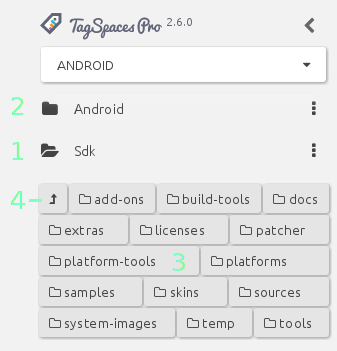
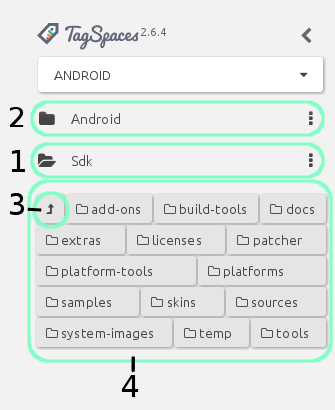
Replaced two images in userinterfaces.md

diff --git a/browsing-files.md b/browsing-files.md
@@ -1,22 +1,75 @@
-# Browsing your Files and Folders
+# Browsing Your Files
 
-tbd
+When you navigate to a folder in your active location, the files contained in the selected folder will be displayed on the main file browsing area of the user interface. TagSpaces offers flexible, configurable views to display your files. These views are called **perspectives**.
 
-(***ToDo: Add these sections to the main menu***)
+## Perspectives overview
 
+Perspectives are not an integral part of TagSpaces, but exist as modular extensions. This modular approach allows for more flexibility, easier development, and customisability of each separate perspective. By default, there are four perspective extensions included in TagSpaces, which are:
 
-## Perspectives
-
-This is a list of the perspective extensions currently build in the application:
-* [Grid Perspective](extensions/perspectiveGrid.html) - presenting your files as grid of thumbnails
-* [List Perspective](extensions/perspectiveList.html) - presenting your files as list, optimized simple file management operations
-* [ImageSwiper Perspective](extensions/perspectiveImageSwiper.html) - a perspective optimized for browsing and viewing of only image file formats
-* [FolderFiz Perspective](extensions/perspectiveGraph.html) - experiment which apply some information visualization concepts on your file structures
+* [List Perspective](extensions/perspectiveList.html) - Presenting your files as list, optimized for simple file management.
 
 
-## Working with the List perspective
+* [Grid Perspective](extensions/perspectiveGrid.html) - Presenting your files as grid of thumbnails, if enabled. Unlike other perspectives, the grid can also display folders.
 
-## Working with the Grid perspective
+
+* [ImageSwiper Perspective](extensions/perspectiveImageSwiper.html) - A perspective optimized for browsing and viewing image files. Use this for your photo or image folders.
+
+
+* [FolderViz Perspective](extensions/perspectiveGraph.html) - This is experimental perspective which applies some information visualization concepts to presenting your folder and file structures.
+
+
+## List perspective
+
+The most common way of presenting files in a folder, is the list format. In the list perspective, all files are represented as rows of a list, just like ou woudl find in most file browsing applications.
+
+***IMAGE***
+
+Each row is broken down into columns, which give information about the files in quetson. The columns, from left to right are:
+
+* **File extension**  -  A color coded icon, representing the file type. (Scroll down to [Common features -> Color coded file extensions](#color-coded-file-extensions) to learn more about this feature.) Underneath the file extension icon, there is also a checkbox, which can be used to easily select one or more files. This also mean, that  `Ctrl or Shift + click` will **not** work for selecting multiple files.
+
+
+* **Title** - The file's title is basically the filename sans the extension or any tag information. By default, TagSpaces stores tags as part of the filename. To learn more about how this is achieved, see the [*Tagging*](tagging.md) section.
+
+
+* **Tags** - All the tags that are applied to the file will appear here, with the right background and font color. To learn more about tag colors, refer to the [*User interface -> Tag Library](userinterface.md#tag-library) section.
+
+
+* **Size** - This is the file size, represented in a human readable format.
+
+
+* **Date modified** - The time the file had been last modified, in a format of `YYYY.MM.DD-hh:mm:ss`
+
+> **Hint:** To change the list oreder, you can click the list column headers. Each header offers biderectional sorting, although there is currently no indicator of either the direction, or the active sorting mode.
+
+**IMAGE** (with list header closeup, and highlighted)
+
+
+### List overflow menu options
+
+The **Floating Action Button** (FAB) at the bottom right corner, hides a contextual overflow menu applicable for the currently active perspective. The List perspective offers its own set of options, that will allow you to manage the list of files in certain ways.
+
+***IMAGE***
+
+* **Toggle Select All Files** will mark every file on the list as selected.
+
+
+* **Add/Remove tags** will allow you to manage tags on selected files (only available when there is an active selection, works on multiple files simultaneously). To learn more about how this feature works, refer to the [Tagging -> Tagging using context menus](tagging.md/tagging-using-context-menus) section.
+
+
+* **Copy/move files** will allow you to copy or move one or more selected files (only available when there is an active selection, works on multiple files simultaneously). Selecting this option will present you wit the Move or Copy File(s) dialog. After specifying the target director, which can be anywhere on the filesystem, even outside your connected locations, you can choose to move or copy them by pressing the right button.
+
+***IMAGE***
+
+* **Delete files** will allow you to delete the files or files selected (only available when there is an active selection, works on multiple files simultaneously).
+
+
+* **Show subfolders content** - If you don1t care about folder structure, or do not know where in the hierarchy you would find a necessary file, you can turn this option on, to show every file from all subfolders, recursively, starting from your current directory. The list will display all files in order, without any indication of their actual locations.
+
+* **Export to CSV** will create a **Comma Separated Variable** from all displayed files, be it from the current folder, or from the full folder hierarchy, and save it n a folder of your choice. The generated CSV contains `path,title,size, tag1, tag2,tag3,...`, where each new line represents a separate file.
+
+
+## Grid perspective
 tbd
 
 ### Showing folders in the grid perspective
@@ -25,14 +78,13 @@ This new feature gives shows in folders in the perspectives in addition for file
 ![subfolder support in the grid perspective](media/subfolder-support-grid-perspective.png)
 
 
-## Working with the ImageSwiper perspective
+## ImageSwiper perspective
 tbd
 
 ## Common features
 
-## Generating live thumbnails for photos
+### File context menu
 
-In the Grid and ImageSwiper perspectives TagSpaces generates thumbnails for JPG and PNG files on the fly. These small image previews are not persisted on your system, so every time you open a folder they will be regenerated. TagSpaces generates thumbnails only for image files which are currently visible in the application.
 
 ### Color coded file extensions
 In the grid and list perspective there is support for color coded file extensions, allowing you a better visual recognition of the file type.  For the most common file extension we defined a custom color for extension buttons in the different perspectives. In the following screenshot, you can see the colored extensions in the list perspective.
@@ -40,3 +92,8 @@ In the grid and list perspective there is support for color coded file extension
 ![color codes file extensions in the list perspective](/media/color-coded-file-extensions-list.png)
 
 Of course you can switch this feature off. Just go to the general tab of the settings and disable the *Enable colored file type extensions* checkbox. In the future we are planing to make the colors for the extensions configurable.
+
+
+### Generating live thumbnails for photos
+
+In the Grid and ImageSwiper perspectives TagSpaces generates thumbnails for JPG and PNG files on the fly. These small image previews are not persisted on your system, so every time you open a folder they will be regenerated. TagSpaces generates thumbnails only for image files which are currently visible in the application.

diff --git a/SUMMARY.md b/SUMMARY.md
@@ -11,14 +11,19 @@
     * [Chrome](installation.md#chrome)
     * [Portable Mode](installation.md#portable-mode)
     * [Selfhosting TagSpaces](selfhosting.md)
-* [User Interface ☭](userinterface.md)
-    * [Start screen ⚒](userinterface.md#start-screen)
+* [User Interface](userinterface.md)
+    * [Start screen](userinterface.md#start-screen)
     * [Locations](userinterface.md#location-manager)
-    * [Folder navigation ⚒](userinterface.md#folder-navigation)
-    * [Tag Library ⚒](userinterface.md#tag-library)
+    * [Folder navigation](userinterface.md#folder-navigation)
+    * [Tag Library](userinterface.md#tag-library)
     * [File browsing and preview](userinterface.md#file-browsing-and-preview)
     * [Floatng Action Button](userinterface.md#floating-action-button)
 * [File Browsing ⚒](browsing-files.md)
+    * [Perspectives overview⚒](browsing-files.md#perspectives-overview)
+    * [List Perspective ⚒](browsing-files.md#list-perspective)
+    * [Grid Perspective ⚒](browsing-files.md#grid-perspective)
+    * [Image Swiper Perspective ⚒](browsing-files.md#imageswiper-perspective)
+    * [Common features ⚒](browsing-files.md#common-features)
 * [Viewing Files ⚒](viewing-files.md)
 * [Creating & Editing Files ⚒](editing-files.md)
 * [Tagging ⚒](tagging.md)

diff --git a/tagging.md b/tagging.md
@@ -47,6 +47,10 @@ The user interface of the application is design to be usable on touch screens, b
 
 <video src="/media/tagspaces-drag-drop.mp4" autoplay="true" loop="true" poster="/media/tagspaces-drag-drop.png" class="img-responsive"></video>
 
+## Tagging using context menus
+
+*With illustratons too**
+
 ## Tagging using keyboard shortcuts
 TODO:
 * Setting individual shortcuts for single tags
